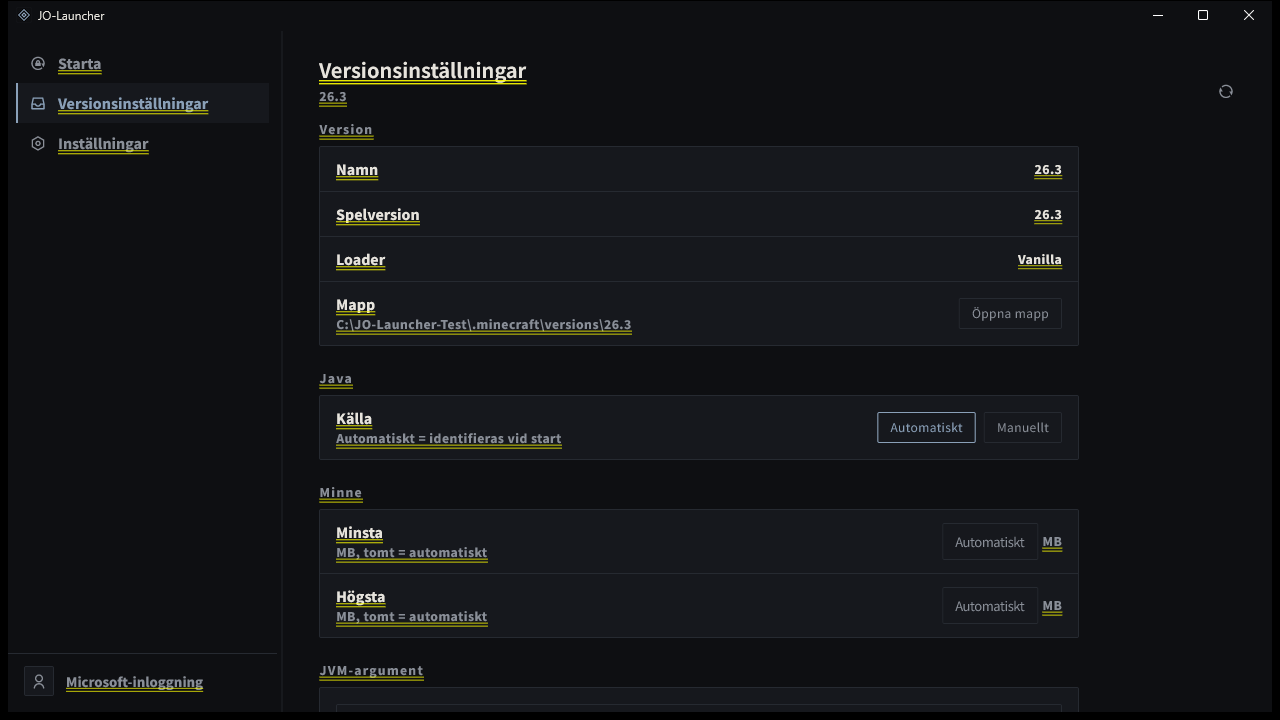
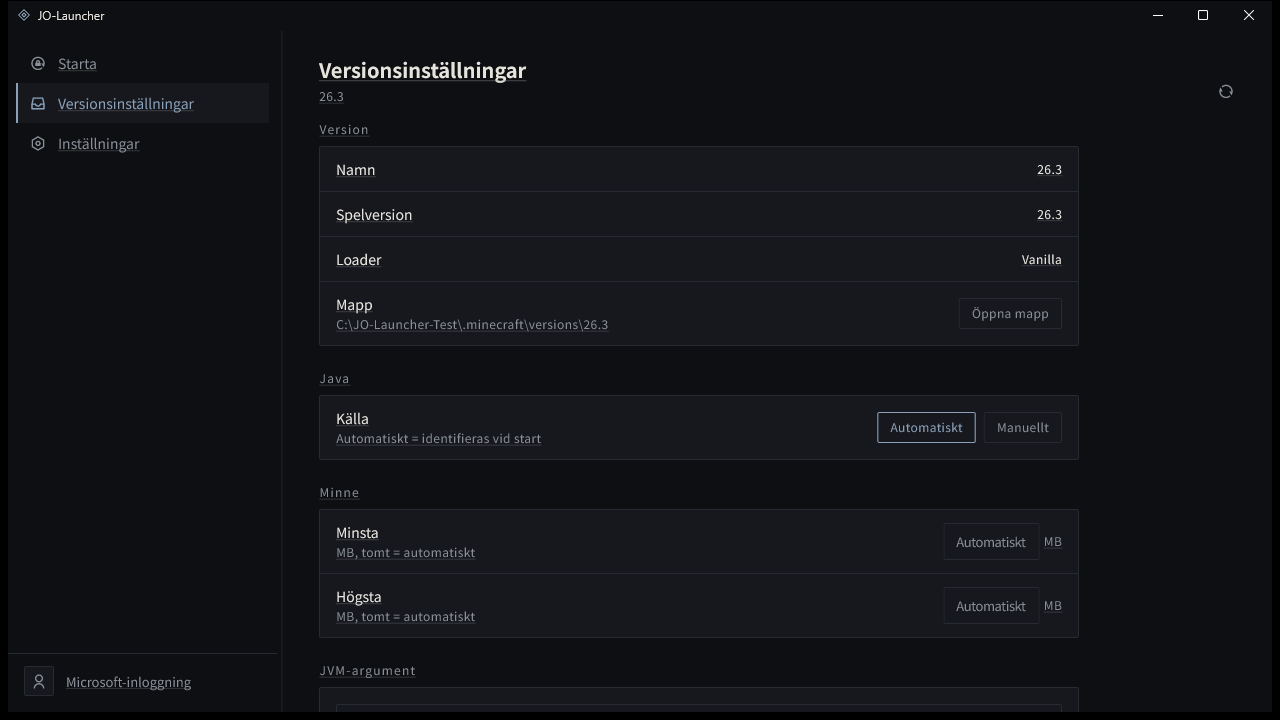
同步 ENWSim 的浅色强调色与全局下划线样式

diff --git a/lib/app.dart b/lib/app.dart
@@ -230,6 +230,30 @@ class _LauncherAppState extends State<LauncherApp>
     _signIn(account);
   }
 
+  /// Material theme for overlay subtrees (dialogs, menus).
+  ///
+  /// `builder` supplies the default text style to the main tree, but Material
+  /// widgets read `textTheme` instead. Both must carry the same quiet grey
+  /// underline or dialogs suddenly use Material's yellow double underline.
+  ThemeData _themeFor(LauncherPalette p) {
+    final ThemeData base = ThemeData(
+      useMaterial3: false,
+      fontFamily: LauncherFonts.sans,
+      scaffoldBackgroundColor: p.bg,
+      colorScheme: ColorScheme.fromSeed(
+        seedColor: p.accent,
+        brightness: _effectiveDark ? Brightness.dark : Brightness.light,
+      ),
+    );
+    return base.copyWith(
+      textTheme: base.textTheme.apply(
+        decoration: TextDecoration.underline,
+        decorationColor: LauncherFonts.decorationColor(p),
+        decorationStyle: TextDecorationStyle.solid,
+      ),
+    );
+  }
+
   @override
   Widget build(BuildContext context) {
     final LauncherPalette palette = LauncherPalette.lerp(
@@ -250,29 +274,28 @@ class _LauncherAppState extends State<LauncherApp>
       ],
       supportedLocales: AppLocalizations.supportedLocales,
       locale: AppLocalizations.localeFor(_settings.locale),
-      theme: ThemeData(
-        useMaterial3: false,
-        fontFamily: LauncherFonts.sans,
-        scaffoldBackgroundColor: palette.bg,
-        colorScheme: ColorScheme.fromSeed(
-          seedColor: palette.accent,
-          brightness: _effectiveDark ? Brightness.dark : Brightness.light,
-        ),
-      ),
+      theme: _themeFor(palette),
       builder: (BuildContext context, Widget? child) {
         // LauncherTheme must sit above the Navigator so dialogs can read it.
         return AnimatedBuilder(
           animation: _themeAnim,
           child: child ?? const SizedBox.shrink(),
           builder: (BuildContext context, Widget? inner) {
+            final LauncherPalette p = LauncherPalette.lerp(
+              LauncherPalette.light,
+              LauncherPalette.dark,
+              _themeAnim.value,
+            );
             return LauncherTheme(
               settings: _settings,
-              palette: LauncherPalette.lerp(
-                LauncherPalette.light,
-                LauncherPalette.dark,
-                _themeAnim.value,
+              palette: p,
+              child: DefaultTextStyle(
+                style: TextStyle(
+                  fontFamily: LauncherFonts.sans,
+                  color: p.text,
+                ).merge(LauncherFonts.decorationOn(p)),
+                child: inner ?? const SizedBox.shrink(),
               ),
-              child: inner ?? const SizedBox.shrink(),
             );
           },
         );

diff --git a/lib/theme/tokens.dart b/lib/theme/tokens.dart
@@ -67,7 +67,7 @@ class LauncherPalette {
     text: Color(0xFF1C1B19),
     secondary: Color(0xFF6E6A62),
     icon: Color(0xFF6E6A62),
-    accent: Color(0xFF9A7B4F),
+    accent: Color(0xFF4A6B8A),
     isDark: false,
   );
 }
@@ -99,6 +99,22 @@ class LauncherFonts {
     height: 1.4,
     fontSize: 12,
     letterSpacing: 0.4,
+  );
+
+  /// Color of the global decorative underline: quiet grey, follows the theme.
+  ///
+  /// The line is not a link style; it is the shared decorative rule used by
+  /// labels and headings. Keeping it here means dialogs and the main UI use
+  /// the same colour.
+  static Color decorationColor(LauncherPalette p) =>
+      p.secondary.withValues(alpha: p.isDark ? 0.45 : 0.32);
+
+  /// Global decorative underline: one solid 1px line.
+  static TextStyle decorationOn(LauncherPalette p) => TextStyle(
+    decoration: TextDecoration.underline,
+    decorationColor: decorationColor(p),
+    decorationStyle: TextDecorationStyle.solid,
+    decorationThickness: 1,
   );
 }
 
